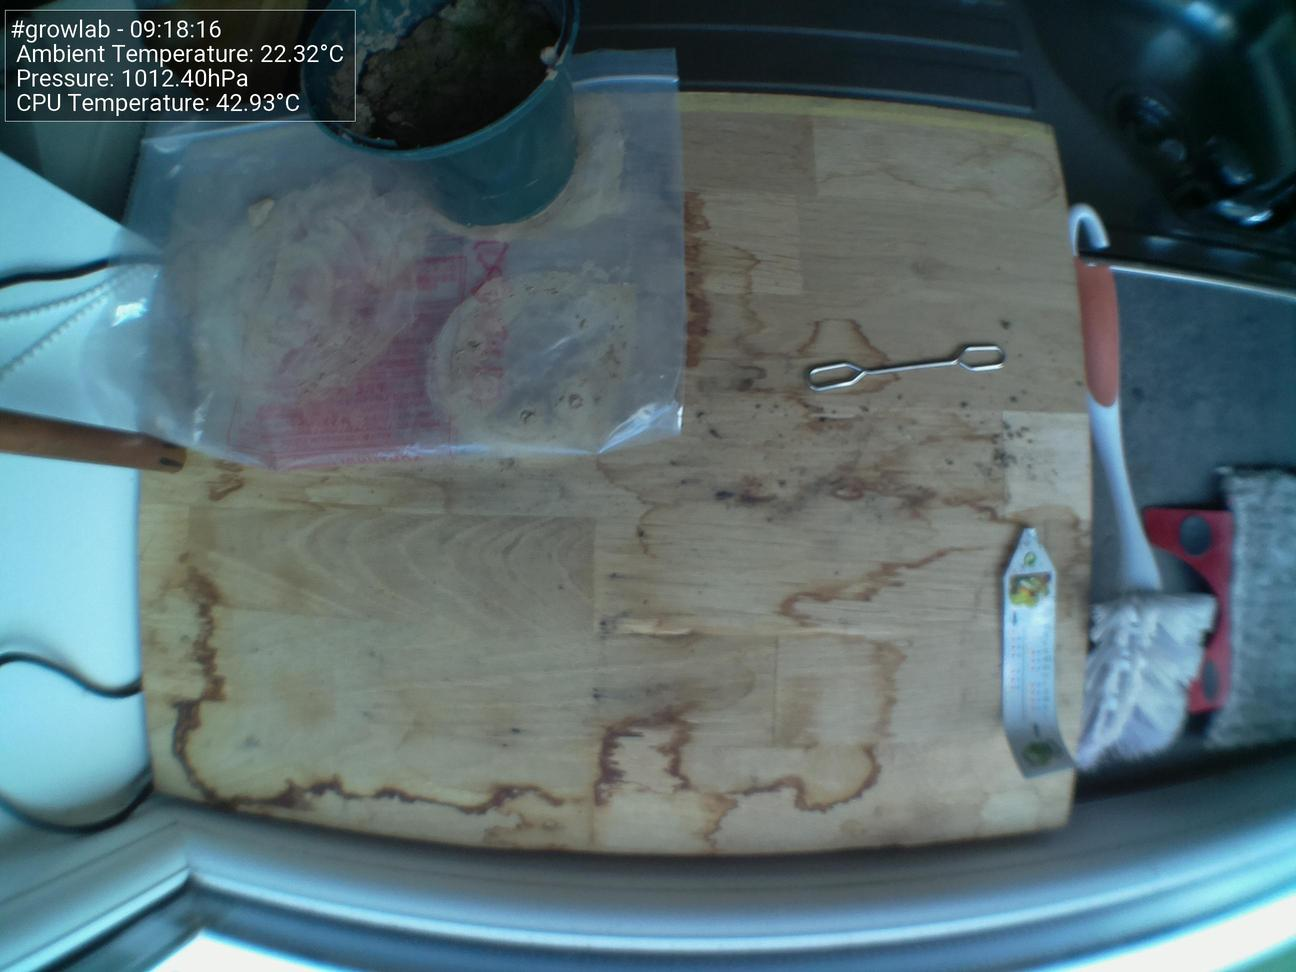
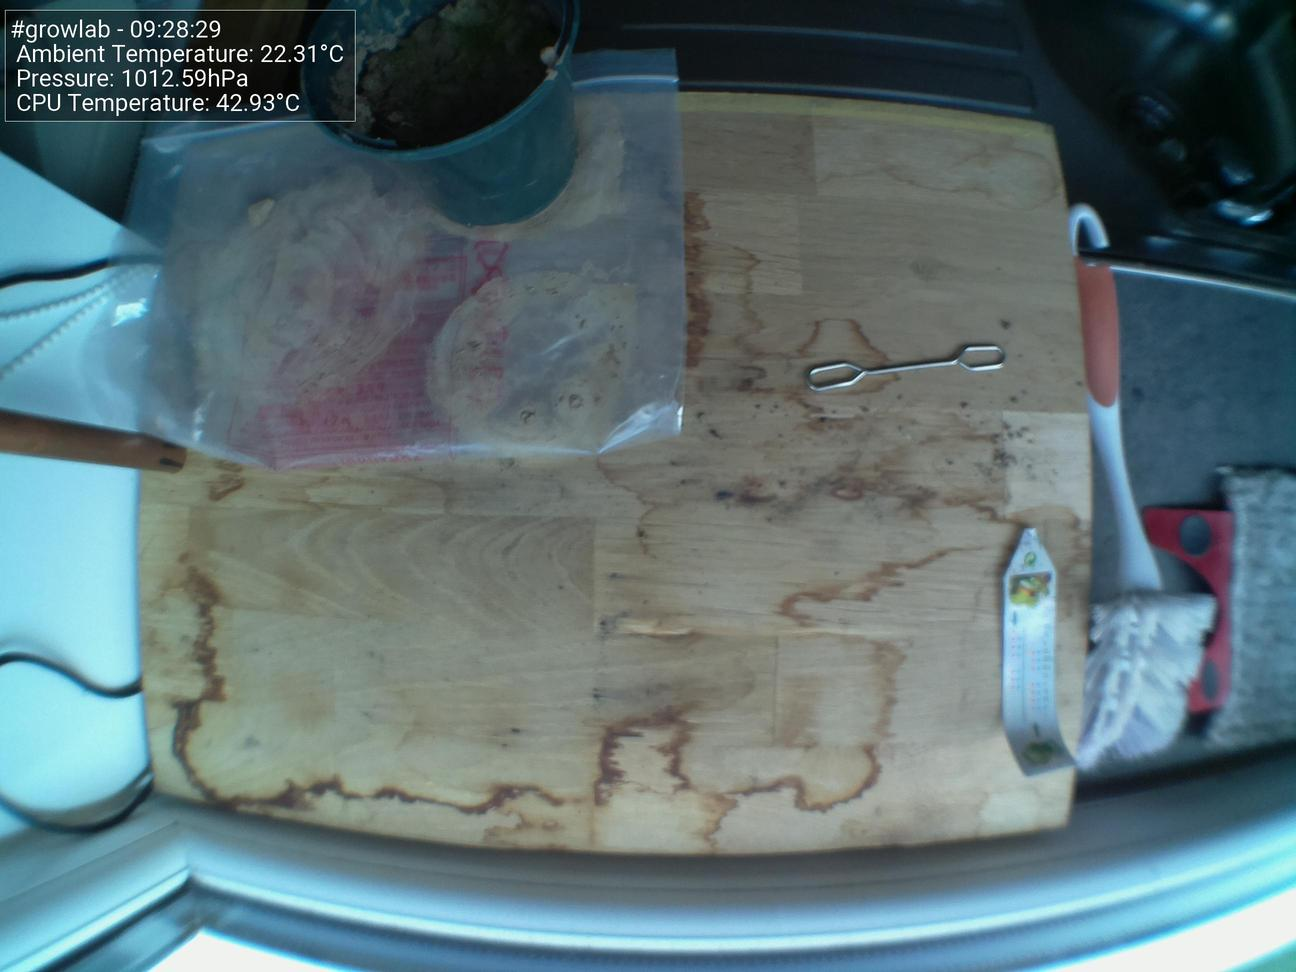
Update images at Thu 26 May 09:28:33 BST 2022

diff --git a/docs/index.html b/docs/index.html
@@ -44,7 +44,7 @@
                         <tbody>
                             <tr>
                                 <td>Time</td>
-                                <td>09:18:16</td>
+                                <td>09:28:29</td>
                             </tr>
                             <tr>
                                 <td>CPU Temp</td>
@@ -52,7 +52,7 @@
                             </tr>
                             <tr>
                                 <td>Ambient Temperature</td>
-                                <td>22.32°C</td>
+                                <td>22.31°C</td>
                             </tr>
                             <tr>
                                 <td>Humidity</td>
@@ -60,7 +60,7 @@
                             </tr>
                             <tr>
                                 <td>Pressure</td>
-                                <td>1012.40hPa</td>
+                                <td>1012.59hPa</td>
                             </tr>
                         </tbody>
                     </table>
@@ -68,7 +68,7 @@
 
                 <h5>Latest image</h5>
                 <div style="width: 85%;">
-                            <img class="figure-img img-fluid rounded" src="./preview.jpg?uid=1653553102.404069">
+                            <img class="figure-img img-fluid rounded" src="./preview.jpg?uid=1653553713.0987582">
                 </div>
             </div>
         </div>
